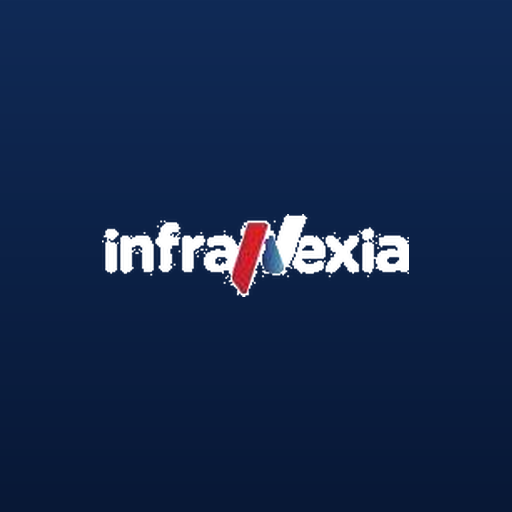
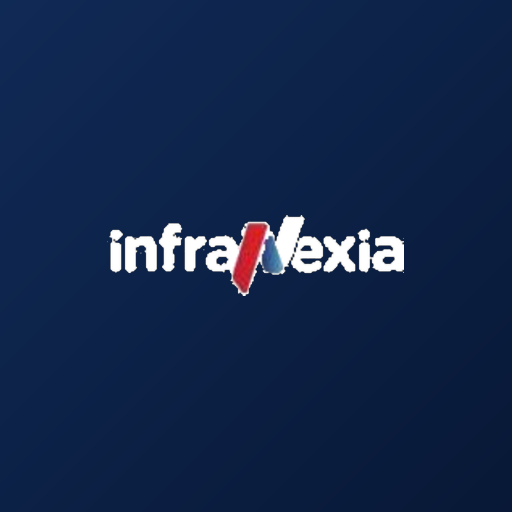
Ikon 512 dan 512-maskable yang hilang, manifest dibetulkan, jalan pintas layar utama

Changed region(s): [[0.1875, 0.4062, 0.8125, 0.5938]]

diff --git a/src/app/layout.tsx b/src/app/layout.tsx
@@ -15,7 +15,14 @@ export const metadata: Metadata = {
     statusBarStyle: "black-translucent",
   },
   icons: {
-    icon: "/icon-192.png",
+    // Kedua ukuran disebut, bukan hanya 192. Chrome baru menawarkan pemasangan
+    // bila ada ikon 192 DAN 512, dan Android memilih yang paling mendekati
+    // kerapatan layarnya — tanpa yang 512, ikon di layar utama diperbesar
+    // paksa dari 192 dan terlihat kabur.
+    icon: [
+      { url: "/icon-192.png", sizes: "192x192", type: "image/png" },
+      { url: "/icon-512.png", sizes: "512x512", type: "image/png" },
+    ],
     apple: "/apple-icon.png",
   },
   formatDetection: { telephone: false },

diff --git a/public/sw.js b/public/sw.js
@@ -34,7 +34,7 @@ self.addEventListener("fetch", (event) => {
     return; // biarkan browser menanganinya seperti biasa
   }
 
-  // Berkas statis (JS, CSS, gambar, model wajah) boleh dilayani dari cache
+  // Berkas statis (JS, CSS, gambar, ikon) boleh dilayani dari cache
   // lebih dulu karena namanya sudah mengandung hash versi.
   event.respondWith(
     (async () => {
